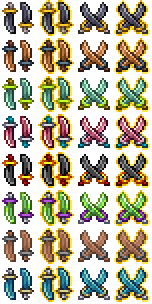
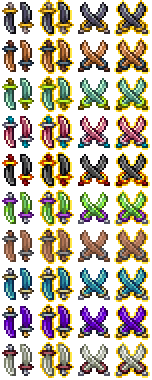
add new teams

diff --git a/ExpandTeamColors.cs b/ExpandTeamColors.cs
@@ -13,8 +13,10 @@ internal class ExpandTeamColors : ModSystem
     public static readonly Color Lime = new(159, 255, 66);
     public static readonly Color Brown = new(173, 115, 84);
     public static readonly Color Aquamarine = new(44, 140, 158);
+    public static readonly Color Purple = new(143, 26, 239);
+    public static readonly Color Ivory = new(178, 181, 171);
 
-    public override void ResizeArrays() => Main.teamColor = [.. Main.teamColor, Gray, Orange, Teal, Pink, Black, Lime, Brown, Aquamarine];
+    public override void ResizeArrays() => Main.teamColor = [.. Main.teamColor, Gray, Orange, Teal, Pink, Black, Lime, Brown, Aquamarine, Purple, Ivory];
 
     public override void Unload()
     {

diff --git a/TeamConfig.cs b/TeamConfig.cs
@@ -8,7 +8,7 @@ internal class TeamConfig : ModConfig
 {
     public override ConfigScope Mode => ConfigScope.ServerSide;
 
-    [Range(1, 4)]
-    [DefaultValue(4)]
+    [Range(1, 5)]
+    [DefaultValue(5)]
     public int TeamPairs { get; set; }
 }
